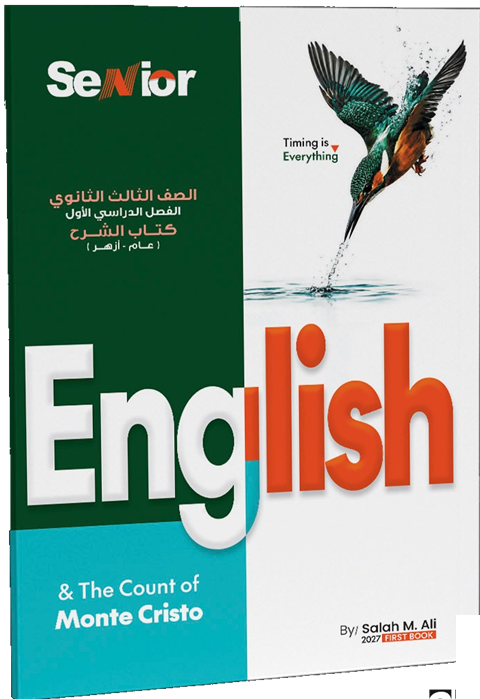
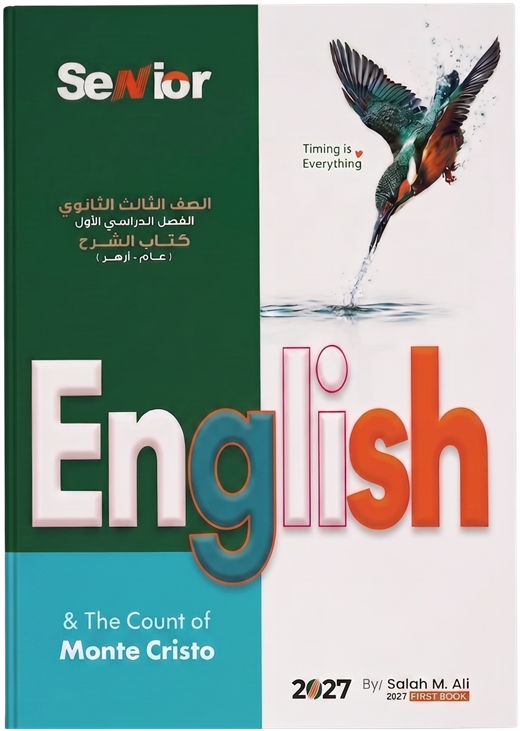
Add files via upload

diff --git a/index.html b/index.html
@@ -717,7 +717,7 @@ header.scr .brand img{height:26px}
   </div>
   <div class="hero-art">
     <img class="bk bk1" src="book-comprehension.png?v=2" alt="Comprehension">
-    <img class="bk bk2" src="book-sharh.png?v=1" alt="Explanation book">
+    <img class="bk bk2" src="book-sharh.png?v=2" alt="Explanation book">
     <img class="bk bk3" src="book-skills.png?v=2" alt="Skills">
     <div class="float f1"><b style="background:var(--teal)">✓</b><span data-ar="دفع عند الاستلام" data-en="Cash on delivery">دفع عند الاستلام</span></div>
     <div class="float f2"><b style="background:var(--orange)">★</b><span data-ar="إجابات نموذجية" data-en="Model answers">إجابات نموذجية</span></div>
@@ -1250,7 +1250,7 @@ function mToggle(b){
 }
 
 const PRODUCTS=[
- {id:'sharh',kind:'single',img:'book-sharh.png?v=1',price:235,accent:'#0F5132',
+ {id:'sharh',kind:'single',img:'book-sharh.png?v=2',price:235,accent:'#0F5132',
   badgeAr:'كتاب الشرح',badgeEn:'Explanation book',badgeBg:'#0F5132',badgeInk:'#fff',
   tAr:'الشرح — English &amp; Monte Cristo',tEn:'The Explanation Book',mAr:'٣ ثانوي · الترم الأول · عام وأزهر',mEn:'Grade 3 · Term 1 · Gen &amp; Azhar',
   dAr:'كتاب الشرح الكامل للصف الثالث الثانوي: شرح المنهج خطوة بخطوة مع رواية The Count of Monte Cristo — عام وأزهر، طبعة فاخرة.',
@@ -1282,7 +1282,7 @@ const PRODUCTS=[
   dEn:'Learn English grammar the easy way for all secondary students — 2nd edition.',
   fAr:['شرح مبسّط لكل قاعدة','أمثلة وتدريبات محلولة','مناسب للعام والأزهر'],
   fEn:['Every rule simplified','Worked examples &amp; drills','Fits General &amp; Azhar']},
- {id:'bundle',kind:'bundle',imgs:['book-sharh.png?v=1','book-exercises.png?v=2','book-skills.png?v=2','book-comprehension.png?v=2'],
+ {id:'bundle',kind:'bundle',imgs:['book-sharh.png?v=2','book-exercises.png?v=2','book-skills.png?v=2','book-comprehension.png?v=2'],
   price:655,oldPrice:725,accent:'#F2A03D',badgeAr:'شحن مجاني',badgeEn:'Free shipping',badgeBg:'#F2A03D',badgeInk:'#0A3B33',
   tAr:'مجموعة ٣ ثانوي كاملة — ٤ كتب',tEn:'The full Grade 3 set — 4 books',mAr:'٣ ثانوي · عام وأزهر',mEn:'Grade 3 · Gen &amp; Azhar',
   dAr:'المجموعة الكاملة للصف الثالث الثانوي: الشرح + التمارين + المهارات + قطع الفهم في طلب واحد بسعر أوفر وشحن مجاني.',